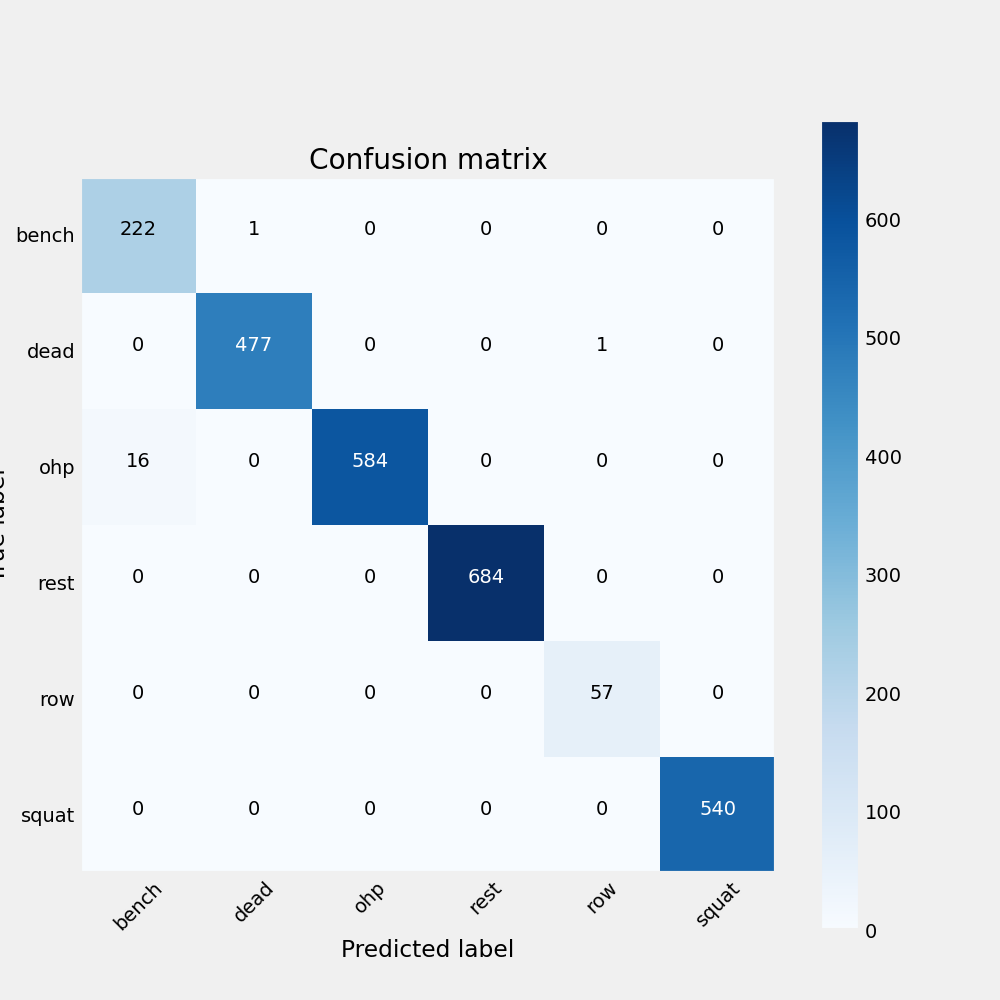
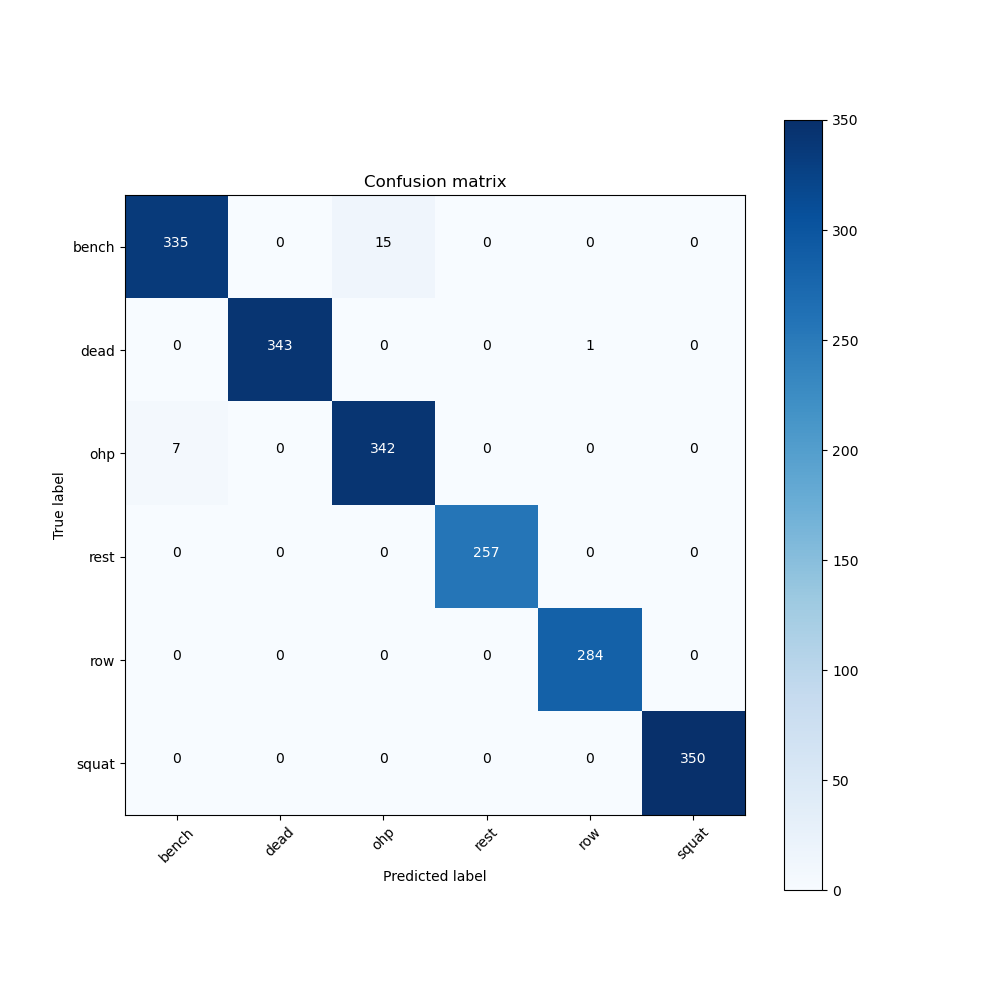
Added XGBoost Classifier plus its results, which were excellent

diff --git a/src/models/train_model.py b/src/models/train_model.py
@@ -6,6 +6,7 @@ from LearningAlgorithms import ClassificationAlgorithms
 import seaborn as sns
 import itertools
 from sklearn.metrics import accuracy_score, confusion_matrix
+from sklearn.preprocessing import LabelEncoder
 
 
 # Plot settings
@@ -81,6 +82,7 @@ feature_set_4 = list(set(feature_set_3 + frequency_features + cluster_features))
 
 learner = ClassificationAlgorithms()
 
+# This takes a long time to run
 max_features = 10
 selected_features, ordered_features, ordered_scores = learner.forward_selection(
     max_features, X_train, y_train
@@ -130,6 +132,7 @@ iterations = 1
 score_df = pd.DataFrame()
 
 for i, f in zip(range(len(possible_feature_sets)), feature_names):
+
     print("Feature set:", str(i + 1))
     selected_train_X = X_train[possible_feature_sets[i]]
     selected_test_X = X_test[possible_feature_sets[i]]
@@ -200,8 +203,24 @@ for i, f in zip(range(len(possible_feature_sets)), feature_names):
 
     performance_test_nb = accuracy_score(y_test, class_test_y)
 
+    print("\tTraining XGBoost")
+    # First encode the labels in the train_y table
+    le = LabelEncoder()
+    y_encoded = le.fit_transform(y_train)
+    (
+        class_train_y,
+        class_test_y,
+        class_train_prob_y,
+        class_test_prob_y,
+    ) = learner.xgboost_classifier(
+        selected_train_X, y_encoded, selected_test_X
+    )  # add gridsearch later
+
+    class_test_y = le.inverse_transform(class_test_y)
+    performance_test_xgb = accuracy_score(y_test, class_test_y)
+
     # Save results to dataframe
-    models = ["NN", "RF", "KNN", "DT", "NB"]
+    models = ["NN", "RF", "KNN", "DT", "NB", "XGB"]
     new_scores = pd.DataFrame(
         {
             "model": models,
@@ -212,6 +231,7 @@ for i, f in zip(range(len(possible_feature_sets)), feature_names):
                 performance_test_knn,
                 performance_test_dt,
                 performance_test_nb,
+                performance_test_xgb,
             ],
         }
     )
@@ -235,6 +255,8 @@ plt.show()
 # Plot shows that the decision tree model performs best with the selected features
 # Test the DT model using the test set with the selected features to see how well
 # it generalizes to unfamiliar data
+
+### Update - XGBoost model performed very well with selected features
 
 # --------------------------------------------------------------
 # Select best model and evaluate results
@@ -501,4 +523,49 @@ plt.show()
 ### ------------------------------------------------------------------- ###
 ### CONCLUSION: NN  model with selected features performed about the same as
 ### with the feature set 4. It still has some error with OHP vs. bench pred
+### Next, try XGBoost with selected features to see if it performs even better.
 ### ------------------------------------------------------------------- ###
+
+le = LabelEncoder()
+y_encoded = le.fit_transform(y_train)
+
+(
+    class_train_y,
+    class_test_y,
+    class_train_prob_y,
+    class_test_prob_y,
+) = learner.xgboost_classifier(
+    X_train[selected_features], y_encoded, X_test[selected_features]
+)
+
+class_test_y = le.inverse_transform(class_test_y)
+accuracy = accuracy_score(y_test, class_test_y)
+
+classes = le.inverse_transform(class_test_prob_y.columns)
+cm = confusion_matrix(y_test, class_test_y, labels=classes)
+
+# create confusion matrix for cm
+fig = plt.figure(figsize=(10, 10))
+plt.imshow(cm, interpolation="nearest", cmap=plt.cm.Blues)
+plt.title("Confusion matrix")
+plt.colorbar()
+tick_marks = np.arange(len(classes))
+plt.xticks(tick_marks, classes, rotation=45)
+plt.yticks(tick_marks, classes)
+
+thresh = cm.max() / 2.0
+for i, j in itertools.product(range(cm.shape[0]), range(cm.shape[1])):
+    plt.text(
+        j,
+        i,
+        format(cm[i, j]),
+        horizontalalignment="center",
+        color="white" if cm[i, j] > thresh else "black",
+    )
+plt.ylabel("True label")
+plt.xlabel("Predicted label")
+plt.grid(False)
+plt.savefig(
+    f"../../reports/figures/confusion-matrix_XGB-model_validation_selected-features.png"
+)
+plt.show()

diff --git a/src/models/LearningAlgorithms.py b/src/models/LearningAlgorithms.py
@@ -22,6 +22,7 @@ from sklearn.metrics import accuracy_score
 import pandas as pd
 import numpy as np
 import copy
+from xgboost import XGBClassifier
 
 
 class ClassificationAlgorithms:
@@ -472,3 +473,23 @@ class ClassificationAlgorithms:
             frame_prob_training_y,
             frame_prob_test_y,
         )
+
+    # Apply an XGBoost approach for classification upon the training data and use the created model to predict
+    # the outcome for both the test and training set.
+    def xgboost_classifier(self, train_X, train_y, test_X):  # start without grid search
+
+        # Create the model
+        xgb = XGBClassifier()
+
+        # Fit the model
+        xgb.fit(train_X, train_y)
+
+        # Apply the model
+        pred_prob_training_y = xgb.predict_proba(train_X)
+        pred_prob_test_y = xgb.predict_proba(test_X)
+        pred_training_y = xgb.predict(train_X)
+        pred_test_y = xgb.predict(test_X)
+        frame_prob_training_y = pd.DataFrame(pred_prob_training_y, columns=xgb.classes_)
+        frame_prob_test_y = pd.DataFrame(pred_prob_test_y, columns=xgb.classes_)
+
+        return pred_training_y, pred_test_y, frame_prob_training_y, frame_prob_test_y
